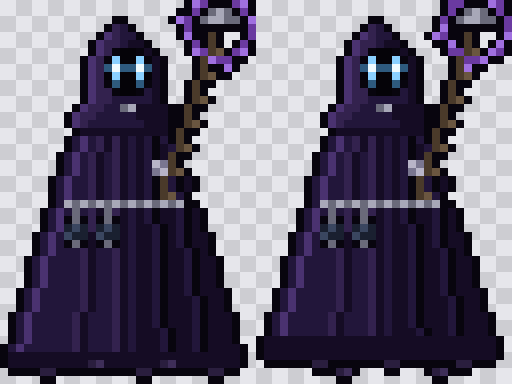
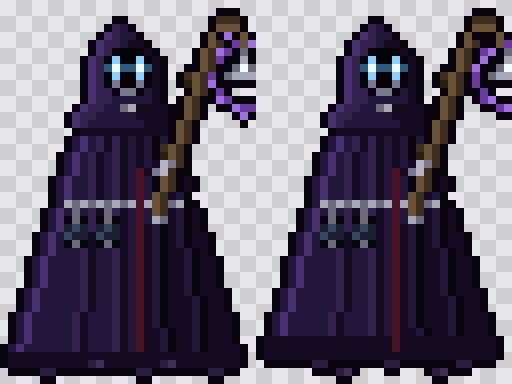
Гаситель: настоящий посох — корявое древко с сучками, крюк и колпак-гасильник на цепочке; рукав, подкладка, худое лицо в свете глаз

diff --git a/tools/story_chars.py b/tools/story_chars.py
@@ -43,8 +43,8 @@ def spark(frame):
 # ---------- Гаситель: высокий, в плаще с капюшоном, с гасильником на шесте ----------
 VIL = {'K': 0x08050e, 'd': 0x150c24, 'c': 0x22163a, 'C': 0x33224e, 'L': 0x4a3270, 'i': 0x050308,
        'e': 0x8ad0ff, 'E': 0xf0fbff, 'g': 0x2e5a7e, 'h': 0xb8b4c8, 'H': 0x7a7690,
-       'm': 0x6a6a7a, 'M': 0xa8a8b8, 'w': 0x4a3a2a, 'W': 0x6a5640,
-       'q': 0x1a2030, 'Q': 0x3a4660, 'a': 0x6a3aa0, 'A': 0xa070e0, 's': 0x2a1e3e, 'S': 0x3e2e58}
+       'm': 0x6a6a7a, 'M': 0xa8a8b8, 'w': 0x3e2e1e, 'W': 0x6a5236,
+       'q': 0x1a2030, 'Q': 0x3a4660, 'a': 0x6a3aa0, 'A': 0xa070e0, 's': 0x2a1e3e, 'S': 0x3e2e58, 'r': 0x4a1424, 'k': 0x2a1e12}
 
 
 def villain(frame, cast=False):
@@ -109,29 +109,50 @@ def villain(frame, cast=False):
             for ex in (cx - 1, cx + 2): G.set(ex, 7, 'e'); G.set(ex, 10, 'g')
     else:
         G.row(9, cx - 1, 'g'); G.set(cx + 2, 9, 'g')
+    # подкладка плаща в разрезе — тёмно-красная
+    for y in range(21, 44):
+        if G.get(cx + 2, y) not in '.': G.set(cx + 2, y, 'r')
+    # худое лицо еле видно в свете глаз: скулы и подбородок
+    if not blink:
+        G.set(cx - 1, 10, 'H'); G.set(cx + 2, 10, 'H'); G.set(cx, 11, 'H'); G.set(cx + 1, 11, 'H')
+
+    def staff(points):
+        """Корявый посох: две колонки (светлая и тёмная), сучки, металлический наконечник внизу."""
+        for i, (x, y) in enumerate(points):
+            G.set(x, y, 'W'); G.set(x + 1, y, 'w')
+            if i % 9 == 4: G.set(x - 1, y, 'w'); G.set(x - 1, y + 1, 'k')   # сучок
+        bx, by = points[-1]
+        G.set(bx, by + 1, 'M'); G.set(bx + 1, by + 1, 'm')
+
+    def crook_and_bell(tx, ty, swing):
+        """Загнутый крюк наверху посоха и колпак-гасильник на цепочке."""
+        for x, y in ((tx, ty), (tx, ty - 1), (tx + 1, ty - 2), (tx + 2, ty - 2), (tx + 3, ty - 2), (tx + 4, ty - 1), (tx + 4, ty)):
+            G.set(x, y, 'W'); G.set(x, y - 1, 'w') if y == ty - 2 else None
+        bx = tx + 4 + swing
+        G.set(bx, ty + 1, 'm'); G.set(bx, ty + 2, 'M')
+        G.row(ty + 3, bx - 1, 'mMm'); G.row(ty + 4, bx - 2, 'mMMMm'); G.row(ty + 5, bx - 2, 'KKKKK')
+        G.set(bx, ty + 3, 'E')  # заклёпка блестит
+        return bx, ty + 4
+
     if cast:
-        # шест поднят над головой, на гасильнике — тёмное сияние
-        for k in range(24):
-            x, y = cx + 5 + k // 3, 24 - k
-            G.set(x, y, 'w'); G.set(x + 1, y, 'W') if k % 3 == 0 else None
-        G.row(20, cx + 4, 'hH'); G.row(21, cx + 4, 'Hh')   # костлявая рука
-        tx, ty = cx + 5 + 23 // 3, 1
-        for x in range(tx - 6, tx + 7):
-            for y in range(0, ty + 9):
-                d = ((x - tx) ** 2 + (y - ty - 2) ** 2) ** 0.5
+        # посох поднят над головой, колпак раскачивается, вокруг — тёмное сияние
+        pts = [(cx + 4 + k // 3, 26 - k) for k in range(22)]
+        staff(pts[::-1])
+        G.row(20, cx + 3, 'cdhH'); G.row(21, cx + 3, 'dHh')   # рукав и костлявая рука
+        bx, by = crook_and_bell(pts[-1][0], pts[-1][1], 1 if frame else 0)
+        for x in range(bx - 6, bx + 7):
+            for y in range(0, by + 8):
+                d = ((x - bx) ** 2 + (y - by) ** 2) ** 0.5
                 if G.get(x, y) != '.': continue
                 if 3.2 < d <= 4.3: G.set(x, y, 'a' if (x + y + frame) % 3 else 'A')
                 elif 4.8 < d <= 5.6 and (x * 3 + y + frame * 2) % 4 == 0: G.set(x, y, 'A')
-        G.row(ty, tx - 1, 'mMm'); G.row(ty + 1, tx - 2, 'mMMmm'); G.row(ty + 2, tx - 2, 'KKKKK')
     else:
-        # шест в руке, на конце — колпачок-гасильник с заклёпкой и цепочкой
-        for y in range(5, 47):
-            G.set(cx + 9, y, 'w')
-            if y % 6 == 0: G.set(cx + 9, y, 'W')
-        G.row(1, cx + 8, 'mMm'); G.row(2, cx + 7, 'mMMMm'); G.row(3, cx + 6, 'mmMMmmm'); G.row(4, cx + 6, 'KKKKKKK')
-        G.set(cx + 9, 2, 'E')
-        G.set(cx + 6, 5, 'm'); G.set(cx + 6, 6, 'M'); G.set(cx + 6, 7, 'm')
-        G.row(23, cx + 7, 'hHh'); G.row(24, cx + 7, 'HhH'); G.row(25, cx + 8, 'h')   # костлявые пальцы
+        # посох стоит рядом, рука держит его; рукав с рваным краем
+        staff([(cx + 9, y) for y in range(6, 46)])
+        crook_and_bell(cx + 9, 6, 0)
+        for y in range(15, 23): G.row(y, cx + 6, 'cd')
+        G.row(23, cx + 6, 'dKd')
+        G.row(23, cx + 8, 'hHh'); G.row(24, cx + 8, 'HhH'); G.row(25, cx + 9, 'h')   # костлявые пальцы на древке
     G.outline('K')
     return G
 
